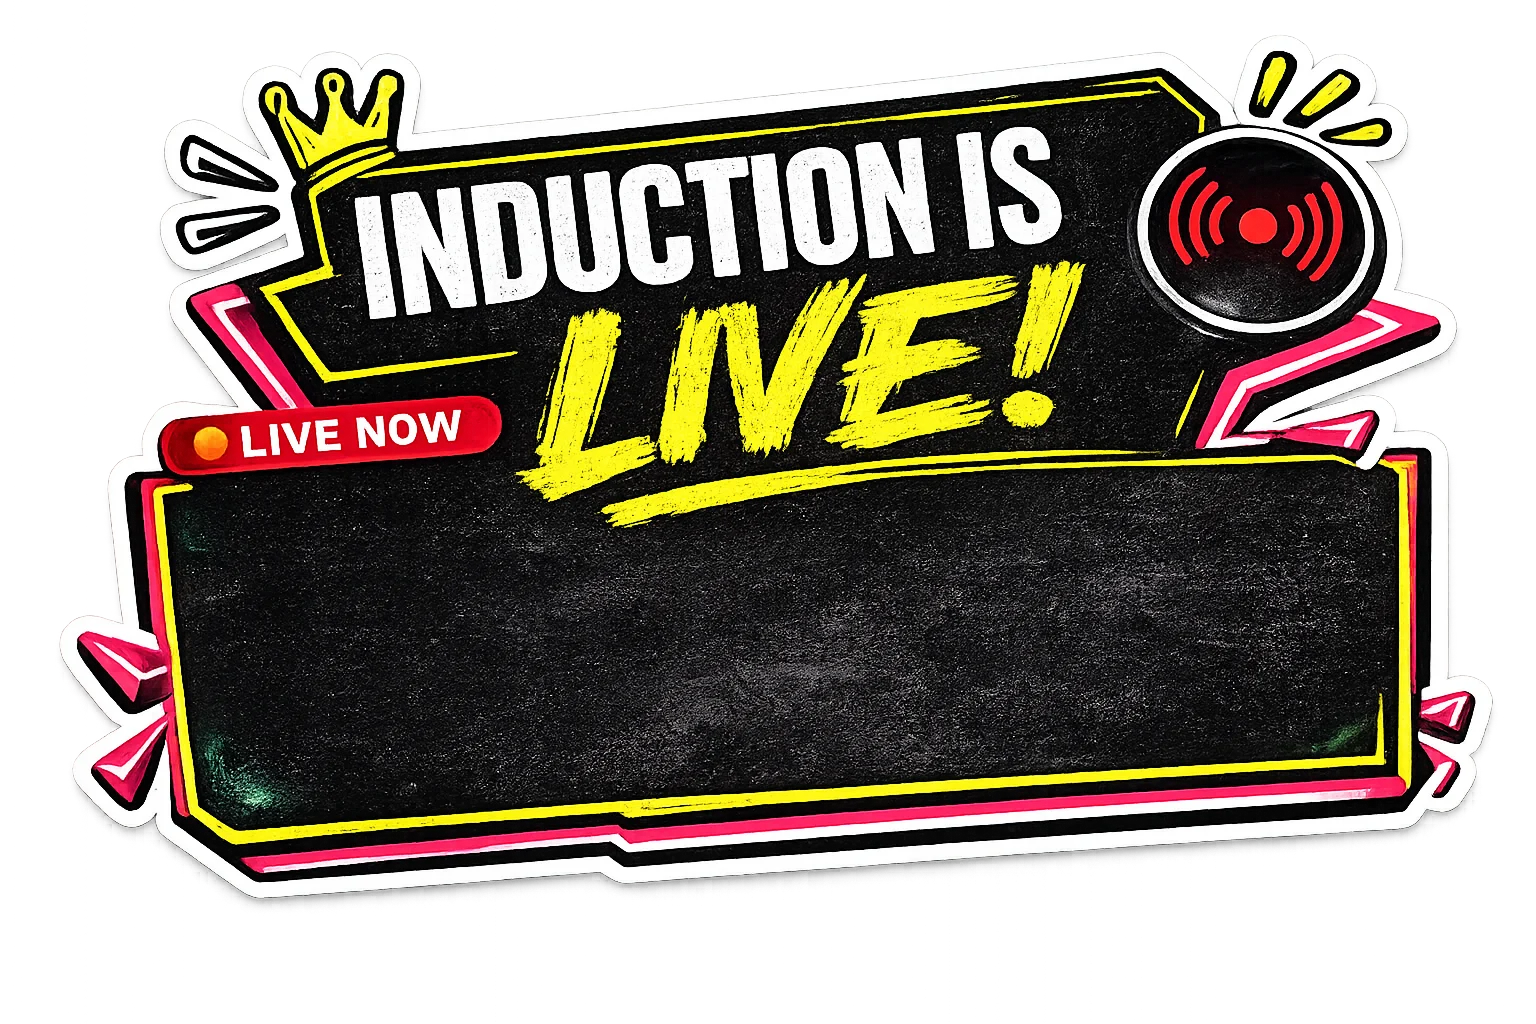
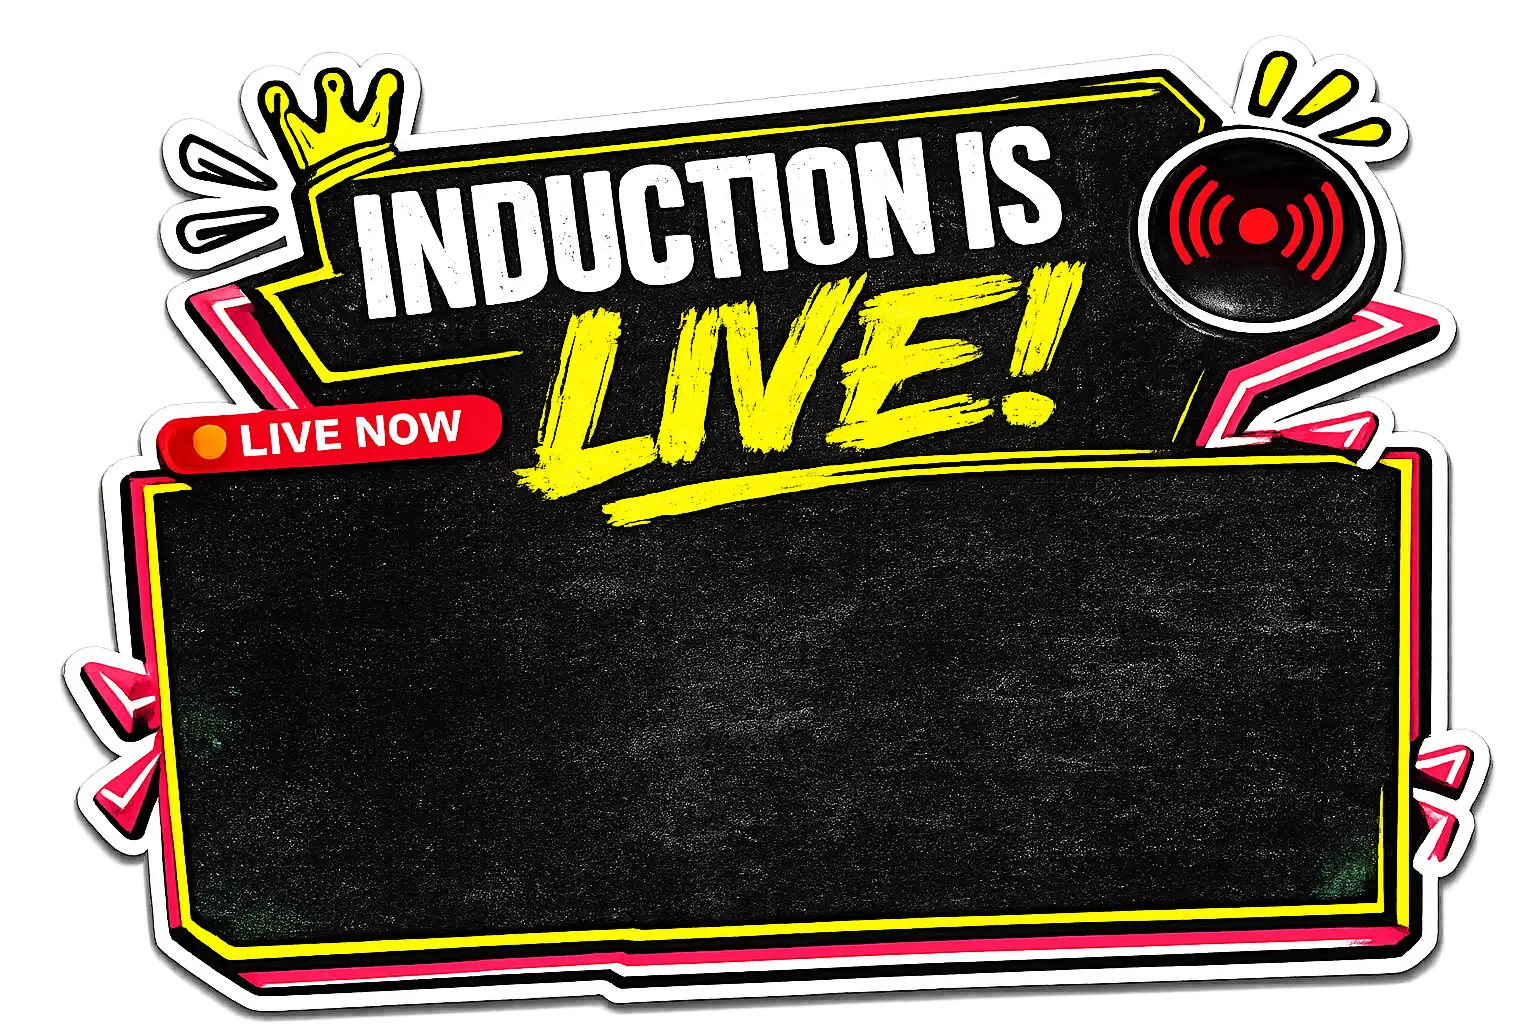
Fix: Reduced text congestion for live sticker

diff --git a/src/components/HeroSection.tsx b/src/components/HeroSection.tsx
@@ -1,6 +1,6 @@
 "use client";
 
-import { useEffect, useRef, useState } from "react";
+import { useEffect, useLayoutEffect, useRef, useState } from "react";
 import gsap from "gsap";
 import { SCHEDULE_CONFIG, pad } from "@/lib/scheduleEngine";
 import HeroNoticeButton from "@/components/HeroNoticeButton";
@@ -146,9 +146,7 @@ export default function HeroSection() {
   const heroSectionContainerRef = useRef<HTMLElement>(null);
   const mainTitleStickerRef = useRef<HTMLImageElement>(null);
   const bottomThreeQuotesRef = useRef<HTMLImageElement>(null);
-  const [isMobileViewport, setIsMobileViewport] = useState<boolean | null>(
-    null,
-  );
+  const [isMobileViewport, setIsMobileViewport] = useState<boolean | null>(null);
   const [countdown, setCountdown] =
     useState<CountdownValues>(INITIAL_COUNTDOWN);
   const [isLive, setIsLive] = useState(false);
@@ -223,11 +221,25 @@ export default function HeroSection() {
     };
   }, []);
 
+  useLayoutEffect(() => {
+    const mediaQuery = window.matchMedia("(max-width: 640px)");
+    const updateViewport = () => setIsMobileViewport(mediaQuery.matches);
+
+    updateViewport();
+
+    if (typeof mediaQuery.addEventListener === "function") {
+      mediaQuery.addEventListener("change", updateViewport);
+      return () => mediaQuery.removeEventListener("change", updateViewport);
+    }
+
+    mediaQuery.addListener(updateViewport);
+    return () => mediaQuery.removeListener(updateViewport);
+  }, []);
+
   useEffect(() => {
     const animationTimeline = gsap.timeline({
       defaults: { ease: "power3.out" },
     });
-    setIsMobileViewport(window.innerWidth <= 640);
     const threeQuotesOffscreenX = window.innerWidth * -0.186;
     const threeQuotesRestingX = window.innerWidth * -0.065;
 
@@ -276,7 +288,7 @@ export default function HeroSection() {
               {badgeText.event ? (
                 <span className="hero-live-badge-event">{badgeText.event}</span>
               ) : null}
-              {badgeText.venue ? (
+              {badgeText.venue && isMobileViewport !== true ? (
                 <span className="hero-live-badge-venue">{badgeText.venue}</span>
               ) : null}
             </div>
